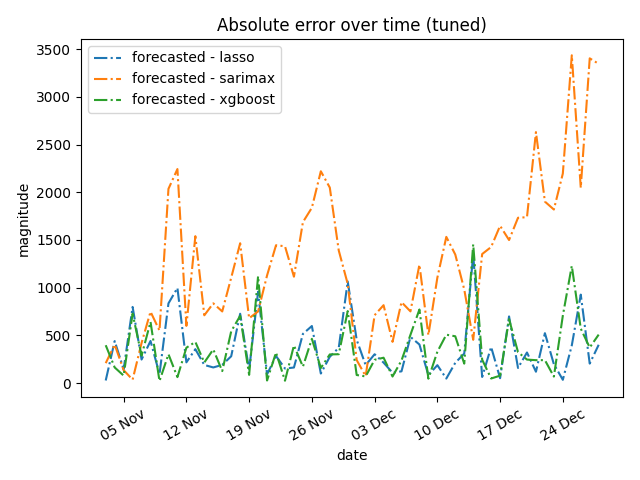
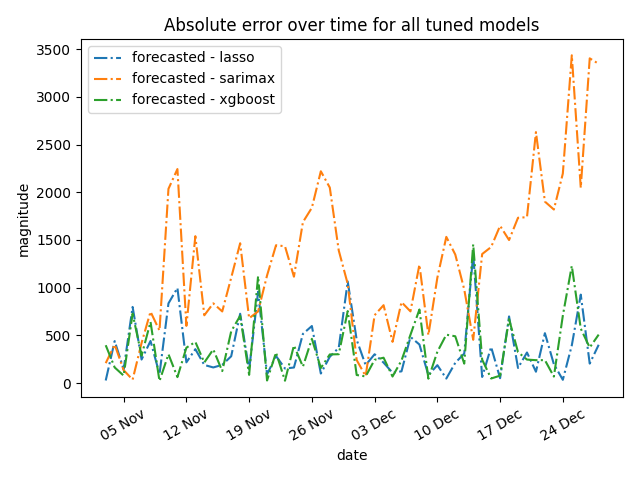
feat: code cleanup

Changed region(s): [[0.25, 0.0312, 0.8438, 0.0625]]

diff --git a/src/analysis/performance_analysis.py b/src/analysis/performance_analysis.py
@@ -69,7 +69,8 @@ def forecast_plot(oos_list: list[pd.DataFrame],
 
 def metrics_plots(metrics_list: list[pd.DataFrame], 
                   models: list[str], 
-                  stage: str, 
+                  title: str,
+                  file_name: str, 
                   folder: str) -> None:
     '''
     Plot baseline and tuned evaluation metrics against eachother for each model
@@ -97,14 +98,15 @@ def metrics_plots(metrics_list: list[pd.DataFrame],
         ax.set_xlabel("model")
         ax.legend()
 
-    fig.suptitle(f"Metrics for all {stage} models across both folds")
+    fig.suptitle(title)
     fig.tight_layout()
-    save_figure(fig, f"metrics_plot_{stage}", folder)
+    save_figure(fig, file_name, folder)
 
 
 def absolute_error_plot(oos_list: list[pd.DataFrame], 
                         models: list[str], 
-                        stage: str, 
+                        title: str,
+                        file_name: str, 
                         folder: str) -> None:
     '''
     Plot absolute error over time for visualisation of magnitude
@@ -118,13 +120,15 @@ def absolute_error_plot(oos_list: list[pd.DataFrame],
     ax.set_ylabel("magnitude")
     ax.set_xlabel("date")
     ax.legend()
-    ax.set_title(f"Absolute error over time ({stage})")
+    ax.set_title(title)
     daily_labels(ax)
     fig.tight_layout(pad=1.2)
-    save_figure(fig, f"absolute_error_{stage}", folder)
+    save_figure(fig, file_name, folder)
 
 
-def ranked_summary(oos_list: list[pd.DataFrame], models: list[str], primary: str = "mae") -> pd.DataFrame:
+def ranked_summary(oos_list: list[pd.DataFrame], 
+                   models: list[str], 
+                   primary: str = "mae") -> pd.DataFrame:
     '''
     Generate a ranked table for summary of findings
     '''
@@ -136,13 +140,11 @@ def ranked_summary(oos_list: list[pd.DataFrame], models: list[str], primary: str
 
         mae = float(mean_absolute_error(y_test, y_pred))
         rmse = float(root_mean_squared_error(y_test, y_pred))
-        # me = float(np.mean(y_true - y_pred))  # bias
         
         rows.append({
             "model": model,
             "mae": mae,
             "rmse": rmse,
-            #"me": me
         })
 
     summary = pd.DataFrame(rows)
@@ -151,16 +153,19 @@ def ranked_summary(oos_list: list[pd.DataFrame], models: list[str], primary: str
 
     return summary.sort_values(["rank", "model"]).reset_index(drop=True)
 
-def ranked_table(summary: pd.DataFrame, stage: str, folder: str) -> None:
+def ranked_table(summary: pd.DataFrame, 
+                 title: str,
+                 file_name: str, 
+                 folder: str) -> None:
     '''
     Visualises ranked table
     ''' 
     fig, ax = plt.subplots()
     ax.axis("off")
     ax.table(cellText=summary.values, colLabels=summary.columns, loc="center")
-    ax.set_title(f"Ranked metrics table ({stage})")
+    ax.set_title(title)
     fig.tight_layout()
-    save_figure(fig, f"metrics_table_{stage}", folder)
+    save_figure(fig, file_name, folder)
 
 
 def plot_all() -> None:
@@ -190,15 +195,15 @@ def plot_all() -> None:
     forecast_plot(oos_baselines, models, "baselines", "evaluation_figures")
     forecast_plot(oos_tuned, models, "tuned", "evaluation_figures")
 
-    metrics_plots(metrics_baselines, models, "baseline", "evaluation_figures")
-    metrics_plots(metrics_tuned, models, "tuned", "evaluation_figures")
+    metrics_plots(metrics_baselines, models, "Metrics for all baseline models", "metrics_plot_baseline", "evaluation_figures")
+    metrics_plots(metrics_tuned, models, "Metrics for all tuned models", "metrics_plot_tuned", "evaluation_figures")
 
-    absolute_error_plot(oos_baselines, models, "baselines", "evaluation_figures")
-    absolute_error_plot(oos_tuned, models, "tuned", "evaluation_figures")
+    absolute_error_plot(oos_baselines, models, "Absolute error over time for all baseline models", "absolute_error_baseline", "evaluation_figures")
+    absolute_error_plot(oos_tuned, models, "Absolute error over time for all tuned models", "absolute_error_tuned", "evaluation_figures")
 
     baselines_ranked = ranked_summary(oos_baselines, models)
     tuned_ranked = ranked_summary(oos_tuned, models)
 
-    ranked_table(baselines_ranked, "baselines", "evaluation_figures")
-    ranked_table(tuned_ranked, "tuned", "evaluation_figures")
+    ranked_table(baselines_ranked, "Ranked metrics table (baselines)", "metrics_table_baseline", "evaluation_figures")
+    ranked_table(tuned_ranked, "Ranked metrics table (tuned)", "metrics_table_tuned", "evaluation_figures")
 

diff --git a/src/analysis/feature_analysis.py b/src/analysis/feature_analysis.py
@@ -78,65 +78,3 @@ def permutation_plot(permutation_values: pd.DataFrame,
     ax.grid()
     fig.tight_layout()
     save_figure(fig, f"PFI_plot_{model}", folder)
-
-def uplifts(df: pd.DataFrame, 
-            factor: str, 
-            month: str,
-            metric: str, 
-            sep=";") -> pd.DataFrame:
-    '''
-    Compute uplift of specified factors against specified metric
-    '''
-    d = df["date"]
-    m = d.dt.month.eq(int(month)) # boolean mask
-
-    if not m.any(): # fallback
-        return pd.DataFrame(columns=OUT_COLS)
-    
-    sub = df.loc[m].copy()
-    s = sub[factor].fillna("").astype(str).str.strip().str.lower()
-
-    if factor in UPLIFT_COLS:
-        tags_list = s.apply(lambda val: [tag.strip() for tag in val.split(sep) if tag.strip() and tag.strip() != "none"]) # split multi-tag strings into list
-        base_mask = tags_list.str.len().eq(0) # marks baseline days as days without tags
-        baseline = (sub.loc[base_mask])[metric].mean() # calculates baseline from marked days
-
-        sub["tags"] = tags_list
-
-        # explode tags to individual rows
-        sub = (sub.explode("tags").rename(columns={"tags": "tag"}))
-        sub = sub[["date", "tag", metric]].drop_duplicates(subset=["date", "tag"])
-
-        sub["baseline"] = baseline
-        sub = sub.loc[~base_mask & sub["baseline"].notna()]
-
-        if sub.empty or pd.isna(baseline) or baseline == 0: # guards uplift calculation against NaN and 0
-            return pd.DataFrame(columns=OUT_COLS)
-        
-    else:
-        return pd.DataFrame(columns=OUT_COLS)
-        
-    # calculate percentage uplift per row against baseline
-    sub["uplift_row"] = 100.0 * (sub[metric] - sub["baseline"]) / sub["baseline"]
-
-    # aggregate per tag
-    tab = (sub.groupby("tag")
-        .agg(n=("date", "nunique") # unique days tag occurs
-             , avg=(metric, "mean") # mean metric on tagged days
-             , uplift=("uplift_row", "mean")) # mean % uplift across occurrences
-        .reset_index().sort_values("avg", ascending=False))
-    
-    return pd.DataFrame(tab[OUT_COLS])
-
-# def plot_all(df: pd.DataFrame) -> pd.DataFrame:
-#     '''
-#     Percentage uplift for specified factor, month, and metric
-#     '''
-#     all_uplifts = []
-#     for factor in UPLIFT_COLS:
-#         for month in range(1, 13):
-#             uplift = uplifts(df, factor, month, "sales")
-#             uplift["factor"] = factor
-#             uplift["month"] = month
-#             all_uplifts.append(uplift)
-#     return pd.concat(all_uplifts, ignore_index=True)
